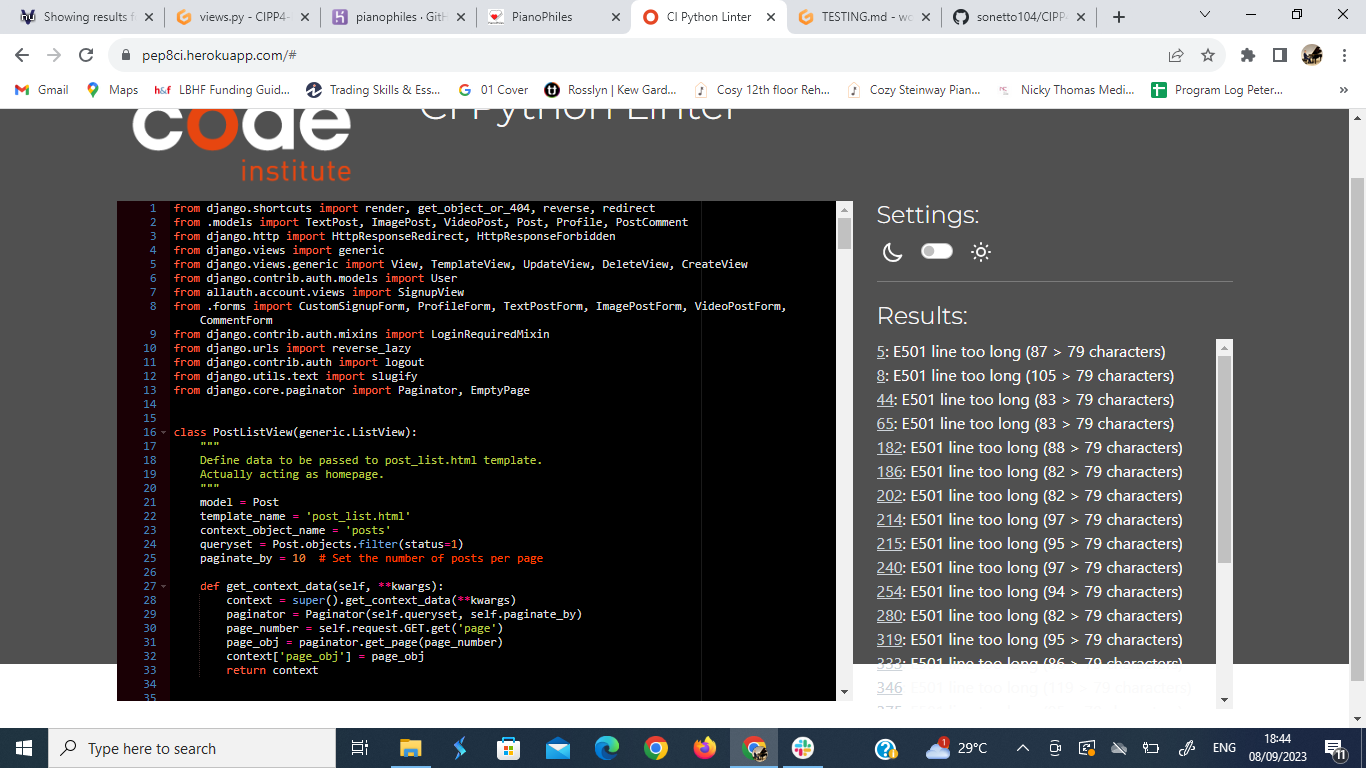
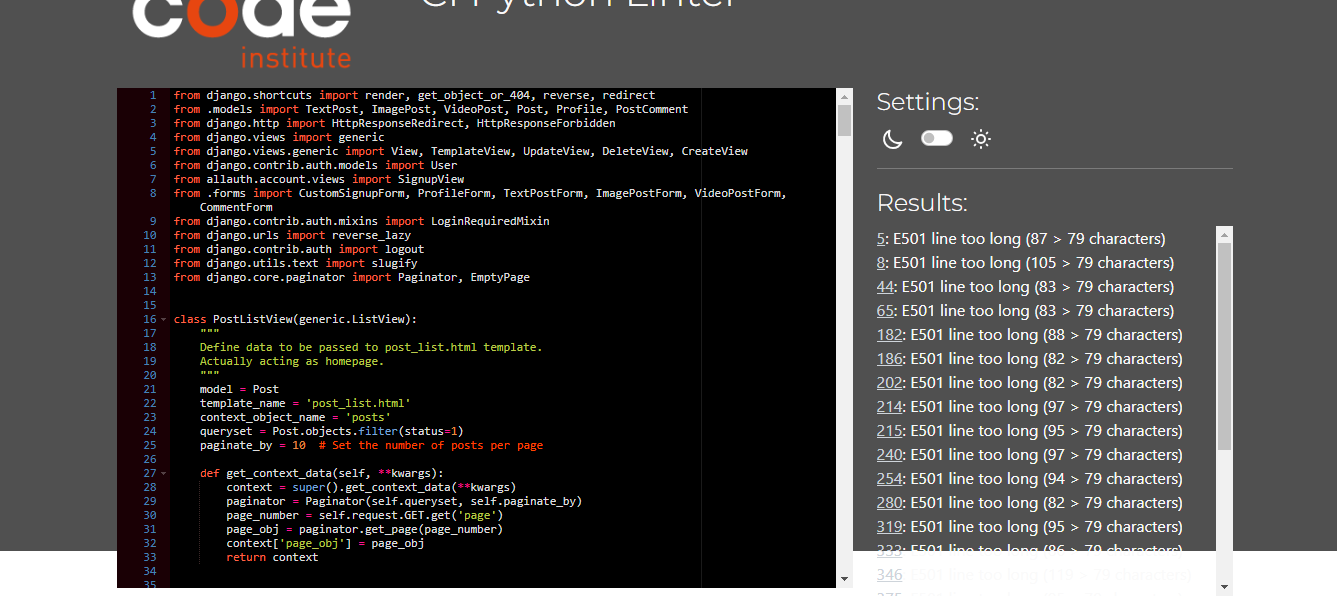
make start on python validation section

diff --git a/README.md b/README.md
@@ -510,9 +510,14 @@ JSHint was used to validate the very few pieces of JavaScript in this project.
 </details>
 
 
+- **Python Validation**
 
+Code Institute's Python Linter was used to validate the Python code in this project. While there are some lines that are deemed "too long", the linter did not detect any other kinds of errors.
 
-
+<details>
+<summary>admin.py Test</summary>
+<img src="/static/assets/img/admin.py-test.png">
+</details>
 
 
 
